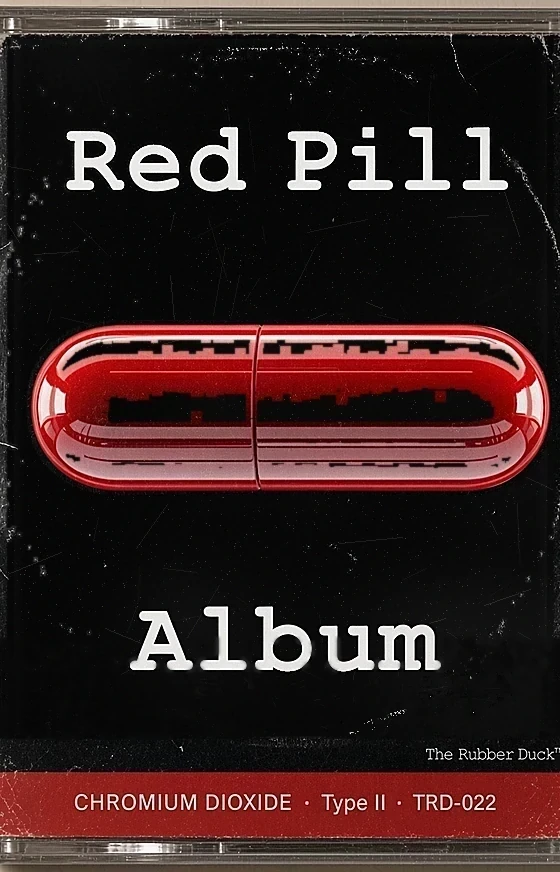
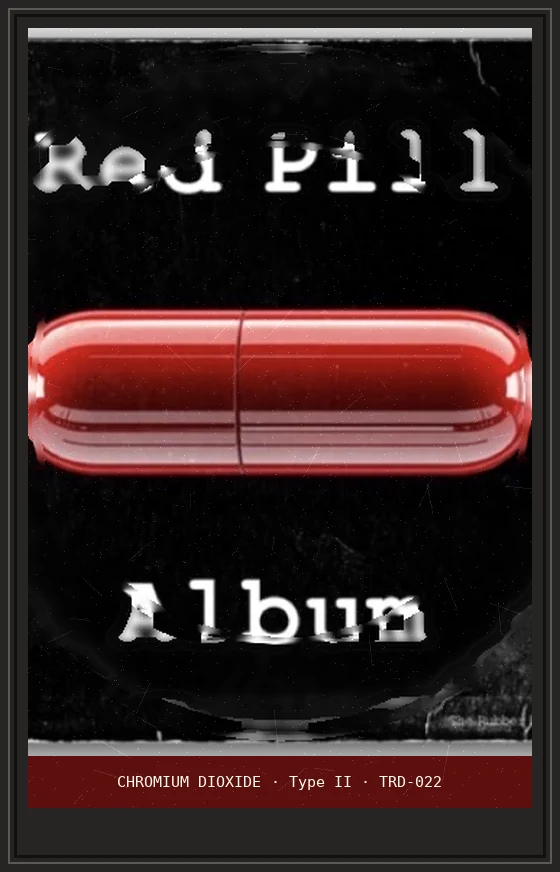
Homepage faces: stack above chrome; refresh Red Pill and X
Raise the stage while a face is open/hovered so Norelco
cards paint above the banner. Shrink phone tap faces.
Interim Red Pill (ring scrub attempt) and X Archive
(Twitter banner + profile composite) while art polish continues.

diff --git a/index.html b/index.html
@@ -244,7 +244,7 @@ body::before{content:"";position:fixed;inset:0;z-index:1;pointer-events:none;
 .stack-a .spine-face{--sf-x:-42%}
 .stack-b .spine-face{--sf-x:-58%}
 @media (max-width:720px){
-  .spine-face{width:min(200px,50vw);bottom:calc(100% + 8px)}
+  .spine-face{width:min(168px,44vw);max-width:176px;bottom:calc(100% + 8px)}
   .stack-a .spine-face,.stack-b .spine-face{--sf-x:-50%}
 }
 .stacks,.stack{overflow:visible}
@@ -265,9 +265,20 @@ body::before{content:"";position:fixed;inset:0;z-index:1;pointer-events:none;
   opacity:1;pointer-events:auto;cursor:pointer;
   transform:translateX(calc(var(--sf-x) + var(--sf-clamp-x))) translateY(var(--sf-clamp-y)) perspective(920px) rotateY(-4deg) rotateX(3deg) translateY(0) scale(1)}
 @media (max-width:720px){
-  .deck .spine-face{width:min(200px,52vw);max-width:220px;bottom:calc(100% + 8px)}
+  .deck .spine-face{width:min(168px,44vw);max-width:176px;bottom:calc(100% + 8px)}
 }
 .top{overflow:visible}
+
+/* faces must paint above .banner (z=200) and support duck — stage is their stacking root */
+body:has(.spine.is-face-open) .stage,
+body:has(.deck.is-face-open) .stage,
+body:has(.spine:hover) .stage,
+body:has(.deck:hover) .stage{z-index:5000}
+.spine.is-face-open .spine-face,
+.deck.is-face-open .spine-face{z-index:60}
+@media (hover:hover) and (pointer:fine){
+  .spine:hover .spine-face,.deck:hover .spine-face{z-index:60}
+}
 
 
 /* ============ TRD COLLECTIBLES: a Main Street card shop entrance ============ */
